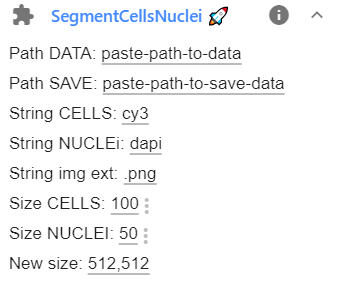
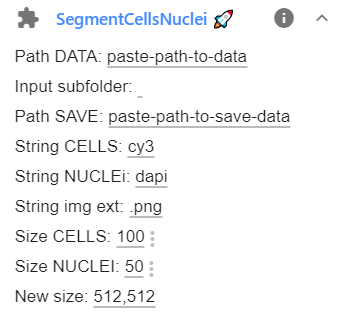
Corrected bugs in recursive search in segmentation (#5)

diff --git a/imjoy-plugins/SegmentCellsNuclei.imjoy.html b/imjoy-plugins/SegmentCellsNuclei.imjoy.html
@@ -7,11 +7,12 @@ the generalist cell/nuclei segmentation package [**Cellpose**](https://github.co
 {
   "name": "SegmentCellsNuclei",
   "type": "native-python",
-  "version": "0.1.2",
+  "version": "0.1.3",
   "description": "Segment cells AND nuclei.",
   "tags":  ["stable","dev"],
   "ui": [
         "Path DATA: {id: 'path_scan', type: 'string', placeholder: 'paste-path-to-data'}",
+        "Input subfolder: {id: 'input_subfolder', type: 'string', placeholder: ''}",
         "Path SAVE: {id: 'path_save', type: 'string', placeholder: 'paste-path-to-save-data'}",
         "String CELLS: {id: 'str_cyto', type: 'string', placeholder: 'cy3'}",
         "String NUCLEi: {id: 'str_nuclei', type: 'string', placeholder: 'dapi'}",
@@ -73,6 +74,12 @@ class ImJoyPlugin():
             api.alert('Path containing data to be processed does not exist.')    
             return
         
+        # Input sub-folder
+        if len(ctx.config.input_subfolder):
+            input_subfolder = None
+        else:
+            input_subfolder = ctx.config.input_subfolder
+
         # Path to save data
         if '>>' in path_save:
             api.log('Path replacement defined in path_save. Will keep string as is.')
@@ -104,6 +111,7 @@ class ImJoyPlugin():
                                       sizes=(ctx.config.size_cells, ctx.config.size_nuclei), 
                                       models=('cyto','nuclei'),
                                       path_save=path_save,
+                                      input_subfolder=input_subfolder,
                                       callback_log=api.log,
                                       callback_status=api.showStatus, 
                                       callback_progress=api.showProgress)

diff --git a/imjoy-plugins/SegmentObjects.imjoy.html b/imjoy-plugins/SegmentObjects.imjoy.html
@@ -7,11 +7,12 @@ the generalist cell/nuclei segmentation package [**Cellpose**](https://github.co
 {
   "name": "SegmentObjects",
   "type": "native-python",
-  "version": "0.1.1",
+  "version": "0.1.2",
   "description": "Segment cells OR nuclei.",
   "tags":  ["stable","dev"],
   "ui": [
         "Path DATA: {id: 'path_scan', type: 'string', placeholder: 'paste-path-to-data'}",
+        "Input subfolder: {id: 'input_subfolder', type: 'string', placeholder: ''}",
         "Path SAVE: {id: 'path_save', type: 'string', placeholder: 'paste-path-to-save-data'}",
         "Object name: {id: 'obj_name', type: 'string', placeholder: 'nuclei'}",
         "String channel: {id: 'str_channel', type: 'string', placeholder: 'dapi'}",
@@ -83,6 +84,12 @@ class ImJoyPlugin():
                 return
             path_save = Path(path_save)
 
+        # Input sub-folder
+        if len(ctx.config.input_subfolder):
+            input_subfolder = None
+        else:
+            input_subfolder = ctx.config.input_subfolder
+
         # Check new size
         new_size_str = ctx.config.new_size
         if len(new_size_str) == 0:
@@ -106,6 +113,7 @@ class ImJoyPlugin():
                                 obj_size= ctx.config.obj_size, 
                                 model_type=ctx.config.model_type,
                                 path_save=path_save,
+                                input_subfolder=input_subfolder,
                                 callback_log=api.log,
                                 callback_status=api.showStatus, 
                                 callback_progress=api.showProgress)

diff --git a/segwrap/utils_cellpose.py b/segwrap/utils_cellpose.py
@@ -118,7 +118,7 @@ def cellpose_predict(data, config, path_save, callback_log=None):
 
 
 # Function to load and segment nuclei images individually 
-def segment_obj_indiv(path_scan, obj_name, str_channel, img_ext, new_size, obj_size, model_type, path_save, callback_log=None, callback_status=None, callback_progress=None):
+def segment_obj_indiv(path_scan, obj_name, str_channel, img_ext, new_size, obj_size, model_type, path_save, input_subfolder=None, callback_log=None, callback_status=None, callback_progress=None):
     """ Will recursively search folder for images to be analyzed!
 
     Parameters
@@ -139,7 +139,8 @@ def segment_obj_indiv(path_scan, obj_name, str_channel, img_ext, new_size, obj_s
         Path to save results,
         - If Pathlib object, then this absolute path is used.
         - If 'string' a replacement operation on the provided name of the data path will be applied (see create_output_path).
-          And results will be stored in subfolder 'segmentation-input'
+    input_subfolder : str
+        Name of subfolder that contains results. If specified ONLY files in this folder will be processed.
     callback_log : [type], optional
         [description], by default None
     callback_status : [type], optional
@@ -156,6 +157,7 @@ def segment_obj_indiv(path_scan, obj_name, str_channel, img_ext, new_size, obj_s
     # Print all input parameters
     log_message(f"Function (segment_obj_indiv) called with: {str(locals())} ", callback_fun=callback_log) 
 
+    print('what?')
     # Configurations
     device = check_device(callback_log=callback_log)
 
@@ -167,23 +169,35 @@ def segment_obj_indiv(path_scan, obj_name, str_channel, img_ext, new_size, obj_s
 
     # Use provided absolute user-path to save images.
     if isinstance(path_save, pathlib.PurePath):
-        if not path_save.is_dir():
-            path_save.mkdir(parents=True)
+        path_save_results = path_save
+        if not path_save_results.is_dir():
+            path_save_results.mkdir(parents=True)
 
     else:
         path_save_str_replace = path_save
-
-    # Loop over data
-    log_message(f'\nLoading images and segment them on the fly', callback_fun=callback_log)
 
     if not path_scan.is_dir():
         log_message(f'Path {path_scan} does not exist.', callback_fun=callback_log) 
         return
 
-    n_imgs = len([f for f in path_scan.glob(f'*{str_channel}*{img_ext}')])
+    # Search for file to be analyzed
+    log_message(f'\nLoading images and segment them on the fly', callback_fun=callback_log)
+    files_proc = []
+    for path_img in path_scan.rglob(f'*{str_channel}*{img_ext}'):
+        if input_subfolder:
+            if path_img.parts[-2] == input_subfolder:
+                files_proc.append(path_img)
+        else:
+            files_proc.append(path_img)
+    n_imgs = len(files_proc)
 
-    for idx, path_img in enumerate(path_scan.rglob(f'*{str_channel}*{img_ext}')):
+    if n_imgs == 0:
+        log_message(f'NO IMAGES FOUND. Check your settings.', callback_fun=callback_log)
+        return
 
+    # Process files
+
+    for idx, path_img in enumerate(files_proc):
         imgs = []
         files = []
         sizes_orginal = []
@@ -222,17 +236,17 @@ def segment_obj_indiv(path_scan, obj_name, str_channel, img_ext, new_size, obj_s
 
         # Create new output path if specified
         if not isinstance(path_save, pathlib.PurePath):
-            path_save = create_output_path(path_img.parent, path_save_str_replace, subfolder='', create_path=True)
-            path_save_settings = path_save
+            path_save_results = create_output_path(path_img.parent, path_save_str_replace, subfolder='', create_path=True)
+            path_save_settings = path_save_results
 
-        cellpose_predict(data, config, path_save=path_save, callback_log=callback_log)
+        cellpose_predict(data, config, path_save=path_save_results, callback_log=callback_log)
 
     log_message(f'\n BATCH SEGMENTATION finished', callback_fun=callback_log)
     #return {'status': 'segmentation finished'}
 
 
 # Function to load and segment nuclei images individually 
-def segment_cells_nuclei_indiv(path_scan, strings, img_ext, new_size, sizes, models, path_save, callback_log=None, callback_status=None, callback_progress=None): 
+def segment_cells_nuclei_indiv(path_scan, strings, img_ext, new_size, sizes, models, path_save, input_subfolder=None, callback_log=None, callback_status=None, callback_progress=None): 
     """[summary] segment cells and nuclei in bulk, e.g. first all images are loaded and then segmented. 
     TODO: specify parameters
     Parameters
@@ -272,8 +286,9 @@ def segment_cells_nuclei_indiv(path_scan, strings, img_ext, new_size, sizes, mod
 
     # Use provided absolute user-path to save images.
     if isinstance(path_save, pathlib.PurePath):
-        if not path_save.is_dir():
-            path_save.mkdir(parents=True)
+        path_save_results = path_save
+        if not path_save_results.is_dir():
+            path_save_results.mkdir(parents=True)
 
     else:
         path_save_str_replace = path_save
@@ -299,9 +314,24 @@ def segment_cells_nuclei_indiv(path_scan, strings, img_ext, new_size, sizes, mod
         log_message(f'Path {path_scan} does not exist.', callback_fun=callback_log) 
         return
 
-    n_imgs = len([f for f in path_scan.rglob(f'*{str_cyto}*{img_ext}')])
-    for idx, path_cyto in enumerate(path_scan.glob(f'*{str_cyto}*{img_ext}')):
+    # Search for file to be analyzed
+    log_message(f'\nLoading images and segment them on the fly', callback_fun=callback_log)
+    files_proc = []
+    for path_img in path_scan.rglob(f'*{str_cyto}*{img_ext}'):
+        if input_subfolder:
+            if path_img.parts[-2] == input_subfolder:
+                files_proc.append(path_img)
+        else:
+            files_proc.append(path_img)
+    n_imgs = len(files_proc)
 
+    if n_imgs == 0:
+        log_message(f'NO IMAGES FOUND. Check your settings.', callback_fun=callback_log)
+        return
+
+    # Process files
+
+    for idx, path_cyto in enumerate(files_proc):
         imgs_cyto = []
         imgs_nuclei = []
         files_cyto = []
@@ -347,8 +377,8 @@ def segment_cells_nuclei_indiv(path_scan, strings, img_ext, new_size, sizes, mod
 
         # Create new output path if specified
         if not isinstance(path_save, pathlib.PurePath):
-            path_save = create_output_path(path_cyto.parent, path_save_str_replace, subfolder='', create_path=True)
-            path_save_settings = path_save
+            path_save_results = create_output_path(path_cyto.parent, path_save_str_replace, subfolder='', create_path=True)
+            path_save_settings = path_save_results
 
         # >>> Call function for prediction of cell
         data_cyto = {'imgs': imgs_cyto,
@@ -358,7 +388,7 @@ def segment_cells_nuclei_indiv(path_scan, strings, img_ext, new_size, sizes, mod
                      'new_size': new_size,
                      'obj_name': 'cells'}
 
-        cellpose_predict(data_cyto, config_cyto, path_save=path_save, callback_log=callback_log)
+        cellpose_predict(data_cyto, config_cyto, path_save=path_save_results, callback_log=callback_log)
 
         # >>> Call function for prediction of nuclei
         data_nuclei = {'imgs': imgs_nuclei,
@@ -368,7 +398,7 @@ def segment_cells_nuclei_indiv(path_scan, strings, img_ext, new_size, sizes, mod
                        'new_size': new_size,
                        'obj_name': 'nuclei'}
 
-        cellpose_predict(data_nuclei, config_nuclei, path_save=path_save, callback_log=callback_log)
+        cellpose_predict(data_nuclei, config_nuclei, path_save=path_save_results, callback_log=callback_log)
 
     log_message(f'\n BATCH SEGMENTATION finished', callback_fun=callback_log)
     #return {'status': 'segmentation finished'}

diff --git a/segwrap/utils_segmentation.py b/segwrap/utils_segmentation.py
@@ -28,7 +28,7 @@ def folder_prepare_prediction(path_process, channel_ident, img_ext, path_save, p
     projection_type : [type]
         [description]
     search_recursive : bool
-        Recursively search folder, default: false. 
+        Recursively search folder, default: false.
     callback_log : [type], optional
         [description], by default None
     callback_status : [type], optional
@@ -39,9 +39,10 @@ def folder_prepare_prediction(path_process, channel_ident, img_ext, path_save, p
 
     # Use provided absolute user-path to save images.
     if isinstance(path_save, pathlib.PurePath):
-        if not path_save.is_dir():
-            path_save.mkdir(parents=True)
-        path_save_settings = path_save
+        path_save_results = path_save
+        if not path_save_results.is_dir():
+            path_save_results.mkdir(parents=True)
+        path_save_settings = path_save_results
 
     else:
         path_save_str_replace = path_save
@@ -59,7 +60,7 @@ def folder_prepare_prediction(path_process, channel_ident, img_ext, path_save, p
     n_files = len(files_proc)
     for idx, file_proc in enumerate(files_proc):
 
-        log_message(f'Processing file: {file_proc}', callback_fun = callback_status)
+        log_message(f'\n>>> Processing file: {file_proc}', callback_fun = callback_status)
 
         if callback_progress:
             progress = float((idx+1)/n_files)
@@ -69,12 +70,13 @@ def folder_prepare_prediction(path_process, channel_ident, img_ext, path_save, p
 
         # Create new output path if specified
         if not isinstance(path_save, pathlib.PurePath):
-            path_save = create_output_path(file_proc.parent, path_save_str_replace, subfolder='segmentation-input', create_path=True)
-            path_save_settings = path_save
+            path_save_results = create_output_path(file_proc.parent, path_save_str_replace, subfolder='segmentation-input', create_path=True)
+            log_message(f'Results will be save here : {path_save_results}', callback_fun=callback_status)
+            path_save_settings = path_save_results       
 
         # Create subfolder when processing individual images
         if projection_type == 'indiv':
-            path_save_indiv = path_save / name_base
+            path_save_indiv = path_save_results / name_base
 
             if not path_save_indiv.is_dir():
                 path_save_indiv.mkdir(parents=True)
@@ -89,8 +91,7 @@ def folder_prepare_prediction(path_process, channel_ident, img_ext, path_save, p
                             "img_name": file_proc.name,
                             "img_path": str(file_proc.parent),
                             "channel_ident": channel_ident,
-                            "projection_type": projection_type
-        }
+                            "projection_type": projection_type}
 
         name_json = path_save_settings / f'img-prop__{name_base}.json'
         with open(name_json, 'w') as fp:
@@ -102,7 +103,7 @@ def folder_prepare_prediction(path_process, channel_ident, img_ext, path_save, p
             for i in range(img.shape[0]):
                 name_save = path_save_indiv / f'{name_base}_Z{str(i+1).zfill(3)}.png'
                 if name_save.is_file():
-                    log_message(f'File already exists. will be overwritten {name_save}', callback_fun = callback_log)
+                    log_message(f'File already exists. will be overwritten {name_save}', callback_fun=callback_log)
                 imsave(name_save, img[i, :, :])
 
         else:
@@ -113,8 +114,8 @@ def folder_prepare_prediction(path_process, channel_ident, img_ext, path_save, p
             elif projection_type == 'max':
                 img_proj = img.mean(axis=0)
 
-            name_save = path_save / f'{name_base}.png'
+            name_save = path_save_results / f'{name_base}.png'
 
             if name_save.is_file():
-                log_message(f'File already exists. will be overwritten {name_save}', callback_fun = callback_log)
+                log_message(f'File already exists. will be overwritten {name_save}', callback_fun=callback_log)
             imsave(name_save, img_proj.astype('uint16'))

diff --git a/setup.py b/setup.py
@@ -2,7 +2,7 @@ import setuptools
 
 setuptools.setup(
     name="segwrap",
-    version="0.0.1.0",
+    version="0.0.1.1",
     author="Florian MUELLER",
     author_email="muellerf.research@gmail.com",
     description="wrapper package for cellpose",

diff --git a/docs/imjoy-segmentation.md b/docs/imjoy-segmentation.md
@@ -1,7 +1,7 @@
 
 We provide different plugins for different segmentation tasks
 
-* Segment cells OR nuclei with the Plugin `SegmentCellsNuclei`: <a href="https://imjoy.io/#/app?w=fq-seg&plugin=fish-quant/segmentation:SegmentObjects@stable&upgrade=1" target="_blank">**install from here.**</a>
+* Segment cells OR nuclei with the Plugin `SegmentObjects`: <a href="https://imjoy.io/#/app?w=fq-seg&plugin=fish-quant/segmentation:SegmentObjects@stable&upgrade=1" target="_blank">**install from here.**</a>
 * Segment cells AND nuclei with the Plugin `SegmentCellsNuclei`: <a href="https://imjoy.io/#/app?w=fq-seg&plugin=fish-quant/segmentation:SegmentCellsNuclei@stable&upgrade=1" target="_blank">**install from here.**</a>
 
 
@@ -9,7 +9,15 @@ We provide different plugins for different segmentation tasks
 
 ### Recursive search for images
 Plugins will search RECURSIVELY in the provided folders for all images fitting the specified criteria, 
-and segment them. Results will then be stored in a dedicated subfolder
+and segment them. Results will then be stored in a dedicated subfolder.
+
+By default, all images matching the naming scheme will be processed. An optional parameter allows to specify
+in which subfolder the images have to be in order to be segmented. This allows to process nested folder
+hierachies and only segmenting images in the relevant subfolders.
+
+As an example, in the provided data we could specif the folder `example_data\analysis` as the data folder. 
+This would then scan this folder and all subfolders and potentially find inappropriate files for segmentation.
+BY defingin the `Input subfolder` to be `segmentation-input`, the analysis will be restricted to this folder. 
 
 ### Defining folder to save results
 The plugin allows to define the results folder in two ways
@@ -55,6 +63,7 @@ routine that will resize the predicted masks back to the original image size.
     Option           | Type | Default     | Description
     ---------------- | ---- | ----------- | -----------
     `Path DATA`    | str  |  | Full path to folder containing data to be segmented.
+    `Input subfolder`    | str  |  | Name of the subfolder containing the images that should be segmented. 
     `Path SAVE` | str  |  |Path to folder where results should be stored (for more details see above).
     `Object name`    | str  |  nuclei | How the object is called.
     `String channel`    | str  |  dapi | Unique identifier to .
@@ -85,6 +94,7 @@ routine that will resize the predicted masks back to the original image size.
     Option           | Type | Default     | Description
     ---------------- | ---- | ----------- | -----------
     `Path DATA`    | str  |  | Full path to folder containing data to be segmented.
+    `Input subfolder`    | str  |  | Name of the subfolder containing the images that should be segmented. 
     `Path SAVE` | str  |  | Path to folder where results should be stored (for more details see above).
     `String CELLS`    | str  |  cy3 | Unique identifier for images of cytoplasmic stain.
     `String NUCLEI`    | str  |  dapi | Unique identifier for images of nuclear stain.
